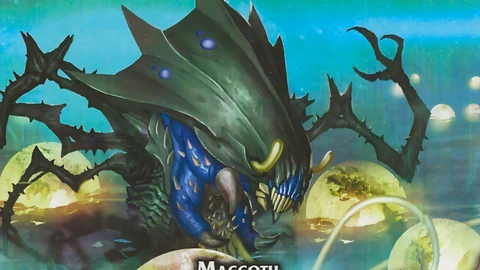
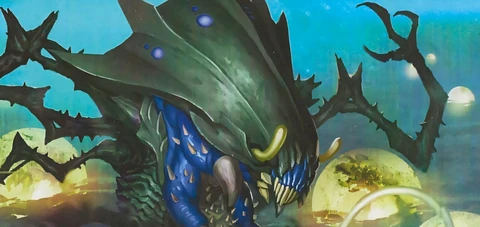
Unavailable nemeses one per row, full width; nemesis portraits cropped between the first and second zoom

diff --git a/style.css b/style.css
@@ -149,10 +149,10 @@ body { overflow: hidden; }
 }
 /* Pulsante con illustrazione: un ritaglio dell'illustrazione della nemesi (Assets/nemesis/<slug>-portrait.webp) occupa
    la parte destra del pulsante e sfuma verso sinistra nello sfondo, sotto al nome */
-.nemesis-option.has-art { position: relative; overflow: hidden; min-height: 72px; padding-right: 116px; }
+.nemesis-option.has-art { position: relative; overflow: hidden; min-height: 72px; padding-right: 128px; }
 .nemesis-art {
-  /* Tutta l'illustrazione (16:9), alta quanto il pulsante: la larghezza segue la proporzione */
-  position: absolute; top: 0; right: 0; bottom: 0; aspect-ratio: 16 / 9; pointer-events: none;
+  /* Ritaglio dell'illustrazione (480 x 227), alto quanto il pulsante: la larghezza segue la proporzione */
+  position: absolute; top: 0; right: 0; bottom: 0; aspect-ratio: 480 / 227; pointer-events: none;
   background: center / cover no-repeat;
   -webkit-mask-image: linear-gradient(to right, transparent 0%, #000 45%); mask-image: linear-gradient(to right, transparent 0%, #000 45%);
 }
@@ -165,11 +165,11 @@ body { overflow: hidden; }
 .nemesis-skeleton { min-height: 60px; border-radius: var(--ae-radius-md); background: var(--ae-surface-raised); opacity: .6; }
 .start-note { margin-top: 4px; color: var(--ae-text-muted); font: 500 14px/20px var(--ae-font-ui); }
 /* Nemesi non disponibili: box piccoli, solo il nome attenuato, barrati da una X rossa sottile (due diagonali) */
-.nemesis-unavailable { margin: 8px 0 0; padding: 0; list-style: none; display: grid; grid-template-columns: repeat(auto-fill, minmax(104px, 1fr)); gap: 6px; }
+.nemesis-unavailable { margin: 8px 0 0; padding: 0; list-style: none; display: grid; grid-template-columns: 1fr; gap: 6px; }
 .nemesis-locked {
-  position: relative; min-height: 36px; padding: 4px 8px; display: flex; align-items: center; justify-content: center; text-align: center;
-  border: 1px solid var(--ae-border); border-radius: var(--ae-radius-sm); background: var(--ae-surface); overflow: hidden;
-  color: var(--ae-text-quiet); font: 600 12px/15px var(--ae-font-ui); cursor: not-allowed; user-select: none;
+  position: relative; min-height: 40px; padding: 4px 14px; display: flex; align-items: center; justify-content: flex-start; text-align: left;
+  border: 1px solid var(--ae-border); border-radius: var(--ae-radius-md); background: var(--ae-surface); overflow: hidden;
+  color: var(--ae-text-quiet); font: 600 14px/18px var(--ae-font-ui); cursor: not-allowed; user-select: none;
 }
 .nemesis-locked::before {
   content: ''; position: absolute; inset: 0; pointer-events: none;

diff --git a/tools/build-nemesis-art.py b/tools/build-nemesis-art.py
@@ -4,7 +4,7 @@ Mettere la scansione della carta nemesi (fronte, come quella di Arachnos) in Ass
 esatto della nemesi come in nemesis.json, per esempio "Assets/nemesis/src/Arachnos.jpg" (JPG, PNG o WebP).
 Gli originali in src/ sono esclusi da git (.gitignore). Per ogni scansione lo script crea:
   - Assets/nemesis/<slug>.webp           la carta intera (larga 1000 px, WebP 90), mostrata quando si sceglie la nemesi
-  - Assets/nemesis/<slug>-portrait.webp  un ritaglio dell'illustrazione (480 x 270), a destra nel pulsante della nemesi
+  - Assets/nemesis/<slug>-portrait.webp  un ritaglio dell'illustrazione (480 x 227), a destra nel pulsante della nemesi
 e scrive Assets/nemesis/nemesis-art.json, l'elenco che l'app legge per sapere quali nemesi hanno l'immagine.
 
 Il ritaglio standard prende la parte alta dell'illustrazione, centrata; se per una nemesi il soggetto sta altrove,
@@ -24,13 +24,14 @@ ROOT = Path(__file__).resolve().parents[1]
 SRC = ROOT / 'Assets' / 'nemesis' / 'src'
 OUT = ROOT / 'Assets' / 'nemesis'
 CARD_WIDTH = 1000
-PORTRAIT = (480, 270)  # 16:9
+PORTRAIT = (480, 227)  # circa 2,1:1, la forma del riquadro nel pulsante (style.css: .nemesis-art)
 QUALITY = 90
 
-# Ritaglio standard: quasi tutta l'illustrazione (sopra il nome), in proporzione 16:9
-DEFAULT_CROP = (0.02, 0.01, 0.98, None)
+# Ritaglio standard: la parte alta dell'illustrazione, a metà fra il primo ritaglio (più stretto) e l'illustrazione intera.
+# L'altezza si calcola dalla proporzione di PORTRAIT (None).
+DEFAULT_CROP = (0.06, 0.047, 0.94, None)
 CROPS = {
-    # 'Arachnos': (0.08, 0.04, 0.92, None),
+    # 'Arachnos': (0.06, 0.047, 0.94, None),
 }
 
 
